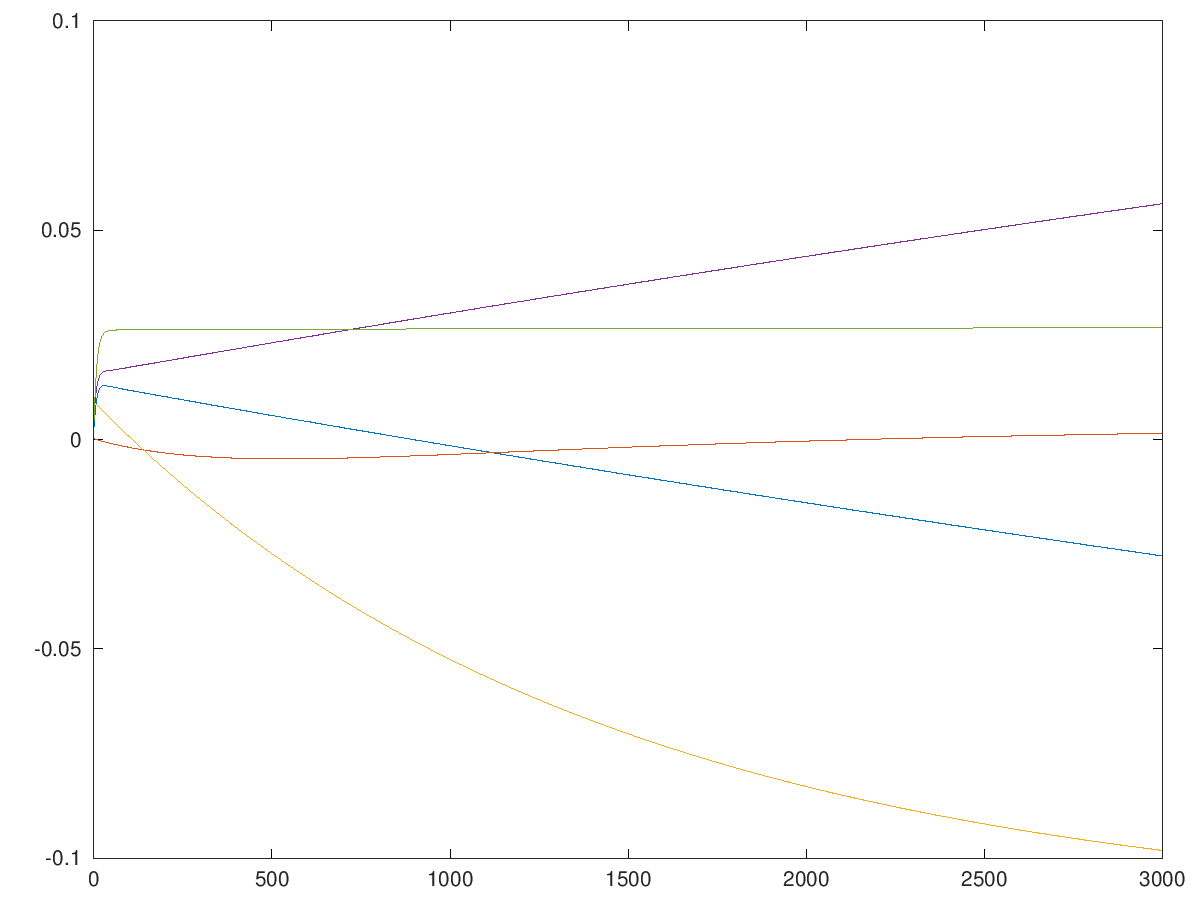
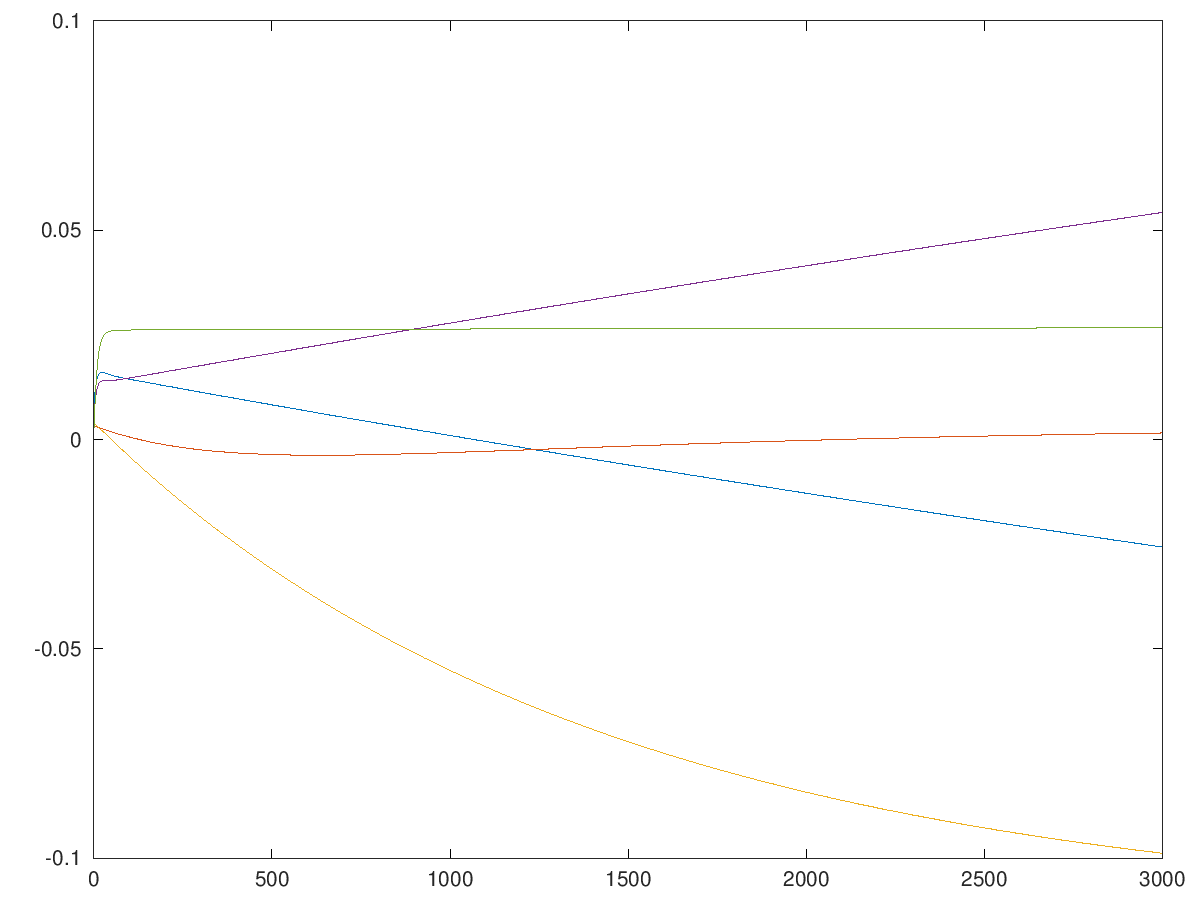
reran trainings for TREC

Changed region(s): [[0.4317, 0.4978, 0.4933, 0.5289], [0.3392, 0.3422, 0.4008, 0.3733], [0.0925, 0.4044, 0.1233, 0.4356]]

diff --git a/results/TREC/fold_1/GAMMA=LARGE/model.m b/results/TREC/fold_1/GAMMA=LARGE/model.m
@@ -1,13 +1,13 @@
-# Created by Octave 4.2.2, Mon Apr 27 16:37:44 2020 UTC <meike@brain09>
+# Created by Octave 4.2.2, Tue Apr 28 17:58:04 2020 UTC <meike@brain09>
 # name: omega
 # type: matrix
 # rows: 6
 # columns: 1
- -0.007738135332746515
- -0.02702101278204365
- -0.001136186399237589
- -0.06170172666018927
- 0.05608601309558611
- 0.02620846518045934
+ -0.007731101499164405
+ -0.02523645309877288
+ -0.001078947216918002
+ -0.06223256380670077
+ 0.05431689720867077
+ 0.02618765813270741
 
 

diff --git a/results/TREC/fold_1/GAMMA=SMALL/model.m b/results/TREC/fold_1/GAMMA=SMALL/model.m
@@ -1,13 +1,13 @@
-# Created by Octave 4.2.2, Mon Apr 27 14:39:33 2020 UTC <meike@brain09>
+# Created by Octave 4.2.2, Tue Apr 28 16:00:59 2020 UTC <meike@brain09>
 # name: omega
 # type: matrix
 # rows: 6
 # columns: 1
- -0.01564041058674326
- -0.02614665316870367
- 0.0001455722366507052
- -0.09071877807475658
- 0.05513851730459127
- 0.02642065744291487
+ -0.01563839089335258
+ -0.02532940681305967
+ 0.0001617745153652863
+ -0.09085061479247938
+ 0.05432880774468585
+ 0.02641094418111523
 
 

diff --git a/results/TREC/fold_2/GAMMA=LARGE/model.m b/results/TREC/fold_2/GAMMA=LARGE/model.m
@@ -1,13 +1,13 @@
-# Created by Octave 4.2.2, Tue Apr 28 00:16:04 2020 UTC <meike@brain09>
+# Created by Octave 4.2.2, Wed Apr 29 01:37:03 2020 UTC <meike@brain09>
 # name: omega
 # type: matrix
 # rows: 6
 # columns: 1
- -0.007993126745683456
- -0.02292971424650744
- -0.006026968672757309
- -0.04412230248168638
- 0.05176233292439123
- 0.02611931694622569
+ -0.00799824384215375
+ -0.02531302750806333
+ -0.00605422350205559
+ -0.04382094796874914
+ 0.05412582766282093
+ 0.02614722134369937
 
 

diff --git a/results/TREC/fold_3/GAMMA=LARGE/model.m b/results/TREC/fold_3/GAMMA=LARGE/model.m
@@ -1,13 +1,13 @@
-# Created by Octave 4.2.2, Tue Apr 28 07:54:31 2020 UTC <meike@brain09>
+# Created by Octave 4.2.2, Wed Apr 29 09:17:12 2020 UTC <meike@brain09>
 # name: omega
 # type: matrix
 # rows: 6
 # columns: 1
- -0.007986889531641141
- -0.0246046241937666
- -0.006872563527308241
- -0.04722807216850548
- 0.05333532498144443
- 0.02612446402755347
+ -0.007988961859105382
+ -0.02468702719809958
+ -0.006885044250168912
+ -0.0470996906105709
+ 0.05341722708100467
+ 0.02612547818892359
 
 

diff --git a/results/TREC/fold_3/GAMMA=SMALL/model.m b/results/TREC/fold_3/GAMMA=SMALL/model.m
@@ -1,13 +1,13 @@
-# Created by Octave 4.2.2, Tue Apr 28 05:56:00 2020 UTC <meike@brain09>
+# Created by Octave 4.2.2, Wed Apr 29 07:21:00 2020 UTC <meike@brain09>
 # name: omega
 # type: matrix
 # rows: 6
 # columns: 1
- -0.01615073860451672
- -0.02670636122040355
- -0.009534062607212835
- -0.06719771590805045
- 0.05518508035929397
- 0.02631099113071792
+ -0.01615191720789837
+ -0.02649936674009193
+ -0.009541515193223486
+ -0.06711342347014072
+ 0.05498027877663778
+ 0.02630856143167421
 
 

diff --git a/results/TREC/fold_2/GAMMA=SMALL/model.m b/results/TREC/fold_2/GAMMA=SMALL/model.m
@@ -1,13 +1,13 @@
-# Created by Octave 4.2.2, Mon Apr 27 22:18:10 2020 UTC <meike@brain09>
+# Created by Octave 4.2.2, Tue Apr 28 23:39:41 2020 UTC <meike@brain09>
 # name: omega
 # type: matrix
 # rows: 6
 # columns: 1
- -0.01612424113592173
- -0.02868286578598375
- -0.007752235122080097
- -0.06393636991377777
- 0.05728896808987684
- 0.02636289729873244
+ -0.01611110331717683
+ -0.02517534687960808
+ -0.007675814103961947
+ -0.06467123468412259
+ 0.05381224865285271
+ 0.0263210253967084
 
 

diff --git a/results/TREC/fold_3/FA-IR/model.m b/results/TREC/fold_3/FA-IR/model.m
@@ -1,13 +1,13 @@
-# Created by Octave 4.2.2, Tue Apr 28 03:58:47 2020 UTC <meike@brain09>
+# Created by Octave 4.2.2, Wed Apr 29 05:20:06 2020 UTC <meike@brain09>
 # name: omega
 # type: matrix
 # rows: 6
 # columns: 1
- -0.4011462219218896
- -0.03146947749433517
- 0.01583256567562983
- -0.03993104427204585
- 0.06648048436185069
- 0.02792940435940053
+ -0.4011429785979548
+ -0.03078613813653053
+ 0.01584640055928321
+ -0.04005997712189801
+ 0.06580327269050887
+ 0.02792078402705124
 
 

diff --git a/results/TREC/fold_3/GAMMA=0/model.m b/results/TREC/fold_3/GAMMA=0/model.m
@@ -1,13 +1,13 @@
-# Created by Octave 4.2.2, Tue Apr 28 03:58:47 2020 UTC <meike@brain09>
+# Created by Octave 4.2.2, Wed Apr 29 05:20:06 2020 UTC <meike@brain09>
 # name: omega
 # type: matrix
 # rows: 6
 # columns: 1
- -0.4011462219218896
- -0.03146947749433517
- 0.01583256567562983
- -0.03993104427204585
- 0.06648048436185069
- 0.02792940435940053
+ -0.4011429785979548
+ -0.03078613813653053
+ 0.01584640055928321
+ -0.04005997712189801
+ 0.06580327269050887
+ 0.02792078402705124
 
 

diff --git a/results/TREC/fold_2/FA-IR/model.m b/results/TREC/fold_2/FA-IR/model.m
@@ -1,13 +1,13 @@
-# Created by Octave 4.2.2, Mon Apr 27 20:20:41 2020 UTC <meike@brain09>
+# Created by Octave 4.2.2, Tue Apr 28 21:40:32 2020 UTC <meike@brain09>
 # name: omega
 # type: matrix
 # rows: 6
 # columns: 1
- -0.4003341363544939
- -0.03281552570372511
- 0.01552088878365408
- -0.03677248230657478
- 0.06780394219231158
- 0.02794492047269405
+ -0.4003449236524436
+ -0.03191795591578119
+ 0.01542504539359225
+ -0.03600535925537076
+ 0.06691415158438331
+ 0.0279339731049635
 
 

diff --git a/results/TREC/fold_2/GAMMA=0/model.m b/results/TREC/fold_2/GAMMA=0/model.m
@@ -1,13 +1,13 @@
-# Created by Octave 4.2.2, Mon Apr 27 20:20:41 2020 UTC <meike@brain09>
+# Created by Octave 4.2.2, Tue Apr 28 21:40:32 2020 UTC <meike@brain09>
 # name: omega
 # type: matrix
 # rows: 6
 # columns: 1
- -0.4003341363544939
- -0.03281552570372511
- 0.01552088878365408
- -0.03677248230657478
- 0.06780394219231158
- 0.02794492047269405
+ -0.4003449236524436
+ -0.03191795591578119
+ 0.01542504539359225
+ -0.03600535925537076
+ 0.06691415158438331
+ 0.0279339731049635
 
 

diff --git a/results/TREC/fold_1/FA-IR/model.m b/results/TREC/fold_1/FA-IR/model.m
@@ -1,13 +1,13 @@
-# Created by Octave 4.2.2, Mon Apr 27 12:42:19 2020 UTC <meike@brain09>
+# Created by Octave 4.2.2, Tue Apr 28 14:01:57 2020 UTC <meike@brain09>
 # name: omega
 # type: matrix
 # rows: 6
 # columns: 1
- -0.3915456559436097
- -0.02879033954414082
- 0.01513589931785394
- -0.03850814056530917
- 0.06368807342249269
- 0.02787322539129166
+ -0.3915200853488915
+ -0.02909631125831013
+ 0.0153601517614955
+ -0.040671386182998
+ 0.06399114151987435
+ 0.02787643995264376
 
 

diff --git a/results/TREC/fold_1/GAMMA=0/model.m b/results/TREC/fold_1/GAMMA=0/model.m
@@ -1,13 +1,13 @@
-# Created by Octave 4.2.2, Mon Apr 27 12:42:19 2020 UTC <meike@brain09>
+# Created by Octave 4.2.2, Tue Apr 28 14:01:57 2020 UTC <meike@brain09>
 # name: omega
 # type: matrix
 # rows: 6
 # columns: 1
- -0.3915456559436097
- -0.02879033954414082
- 0.01513589931785394
- -0.03850814056530917
- 0.06368807342249269
- 0.02787322539129166
+ -0.3915200853488915
+ -0.02909631125831013
+ 0.0153601517614955
+ -0.040671386182998
+ 0.06399114151987435
+ 0.02787643995264376
 
 
